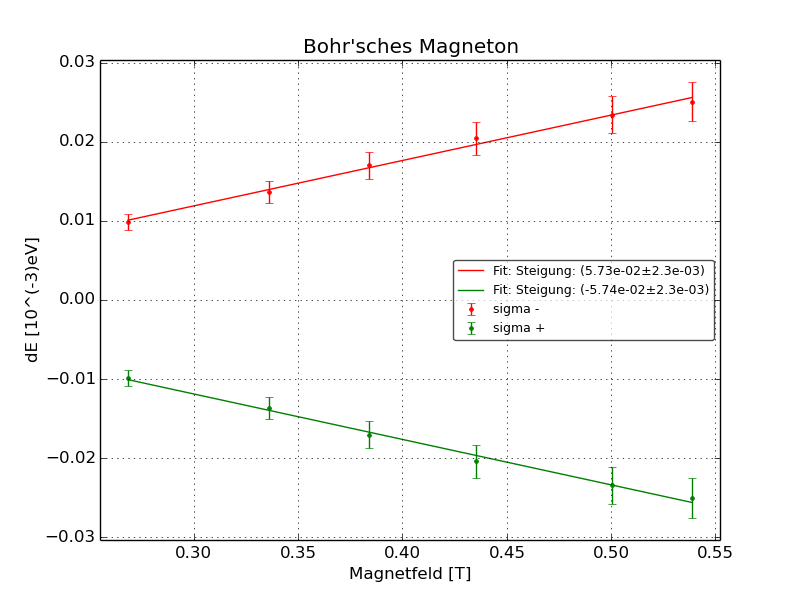
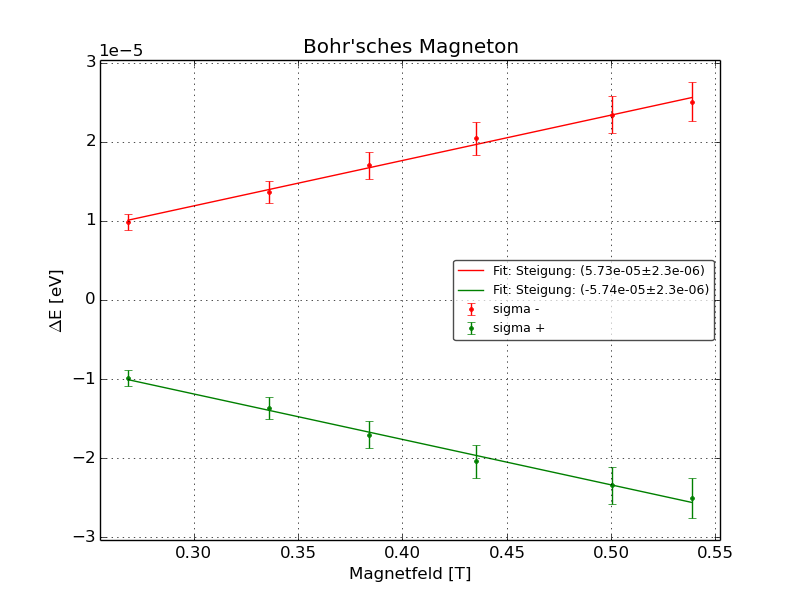
Auswertungen fast fertig und ein bild eingefuegt

diff --git a/Versuch401-Elektronische-Uebergaenge-in-Atomen/Report/Versuch401_TobiasBrauell_FrederikeSchroedel_Report.tex b/Versuch401-Elektronische-Uebergaenge-in-Atomen/Report/Versuch401_TobiasBrauell_FrederikeSchroedel_Report.tex
@@ -294,6 +294,14 @@
         
         \todo[inline]{TODO!}
         
+        \begin{figure}[ht]
+        \centering
+        \includegraphics[width=\textwidth]
+    {Figures/termschema2.png}
+        \caption{Termschema des Quecksilber Atomes mit eingezeichneten
+        Übergängen.}
+        \label{fig:termschema2}
+      \end{figure}
       \end{subsection}
       %%%%%%%%%%%%%%%%%%%%%%%%%%%%%%%%%%%%%%%%
       
@@ -625,10 +633,26 @@
       %%%%%%%%%%%%%%%%%%%%%%%%%%%%%%%%%%%%%%%%
       %%%%%%%%%%%%%%%%%%%%%%%%%%%%%%%%%%%%%%%%
       %%%%%%%%%%%%%%%%%%%%%%%%%%%%%%%%%%%%%%%%
-      \begin{subsection}{Weiterführende Überlegungen}
+      \begin{subsection}
+      {Weiterführende Überlegungen: Finesse und Auflösungsvermögen}
         \label{chp:Zeeman:sec:AuswertungWeiteres}
-        
-        \todo[inline]{Finesse und auflösung fehlen noch!!!}
+        Zur Berechnung der theoretischen Finesse $\mathcal{F}$ benötigt man
+        neben \cref{eq:Finesse} den Reflexionskoeffizienten des 
+        \textit{Fabry-Perot-Etalons} der für unseren Aufbau $R=0.85$ beträgt.
+        Daraus ergibt sich nun aus \cref{eq:Finesse} $\mathcal{F}=19.31$.
+        Aus der theoretischen Finesse, der Wellenlänge der beobachteten Linie
+        $\lambda=\SI{643.8}{\nano\meter}$, der Dicke des
+        \textit{Fabry-Perot-Etalons} $d=\SI{4}{\milli\meter}$ und des
+        Brechungsindex $n=1.457$ lässt sich die theoretische Auflösung $R$ aus
+        \cref{eq:Aufloesung} mit $R=\SI{3.50e5}{}$ bestimmen. \newline
+        Für die Bestimmung der realen Auflösung haben wir, unter Beobachtung
+        mit dem Okular, den minimalen Spulenstrom bestimmt ab dem eine Trennung
+        der Linien erkennbar ist. Bei der transversalen Ausrichtung haben wir
+        einen Wert von $I_T=\SI{2.5}{\ampere}$ gemessen. Mit der von uns
+        bestimmten Magnetfeldgleichung ergibt sich daraus eine Feldstärke von
+        $B_T=(224.40\pm 10.39)\SI{}{\milli\tesla}$. Bei der longitudinalen
+        Messung ergibt sich eine Feldstärke von 
+        $B_L=(105.23\pm 5.70)\SI{}{\milli\tesla}$. 
         
       \end{subsection}
       %%%%%%%%%%%%%%%%%%%%%%%%%%%%%%%%%%%%%%%%
@@ -646,12 +670,10 @@
       Betrachtet man die Interferenzmuster einer Hg-Lampe durch ein
       \textit{Fabry-Perot-Etalon} kann man nicht nur das wunderschöne Muster
       optisch betrachten, setzt man die Lampe einem externen Magnetfeld aus,
-      so lässt sich außerdem auch die Spin-Entartung
-      \todo[inline]{Spin richtig?}
-      beobachten und das Bohrschen Magneton aus den aufspaltenden
-      Energiedifferenzen berechnen. Der von uns bestimmte Wert für das Bohrsche
-      Magneton passt außerdem auch noch erstaunlich gut mit seinen Fehlergrenzen
-      zum Literaturwert.
+      so lässt sich außerdem auch die Energie-Entartung beobachten und das
+      Bohrschen Magneton aus den aufspaltenden Energiedifferenzen berechnen.
+      Der von uns bestimmte Wert für das Bohrsche Magneton passt außerdem auch
+      noch erstaunlich gut mit seinen Fehlergrenzen zum Literaturwert.
       Alle Fehler wurden bei den benutzten Rechnungen mithilfe der
       Fehlerfortpflanzung bestimmt.
     \end{section}
@@ -677,7 +699,6 @@
       \label{chp:FH:sec:AufbauJustierung}
       
       
-      
     \end{section}
     %%%%%%%%%%%%%%%%%%%%%%%%%%%%%%
     
@@ -688,7 +709,6 @@
     %%%%%%%%%%%%%%%%%%%%%%%%%%%%%%
     \begin{section}{Justierung und Durchführung}
       \label{chp:FH:sec:JusitierungDurchfuehrung}
-      
       
       
     \end{section}
@@ -793,7 +813,33 @@
       %%%%%%%%%%%%%%%%%%%%%%%%%%%%%%%%%%%%%%%%
       \begin{subsection}{Abhängigkeiten des Anodenstromes}
         \label{chp:FH:sec:AuswertungAnodenstrom}
-        Als nächstes ist die Abhängigkeit des Anodenstromes 
+        Als nächstes sind die Abhängigkeiten des Anodenstromes zu klären. Dazu
+        könne wir wieder \cref{fig:FHvergleich} betrachten. Zunächst fällt auf,
+        dass es bei ganzen Vielfachen der Übergangsenergie keine scharfen
+        Einbrüche des Anodenstromes gibt. Dafür kann es verschieden Gründe
+        geben. \newline
+        zum einen haben angeregte Zustände eine endliche Lebensdauer in denen
+        sie kein zweites mal angeregt werden können und die Elektronen
+        unbeeinträchtigt weiter fliegen können. Außerdem ist das
+        Quecksilberatom relativ dünn, sodass die freie
+        Weglänge im Quecksilberatom $\SI{0.1}{\micro\meter}$ bis
+        $\SI{100}{\micro\meter}$ beträgt. Es kann also genauso gut sein, dass
+        ein Elektron keines der Quecksilberatome trifft und ebenfalls
+        unbeeinträchtigt weiter fliegt selbst wenn es die richtige Energie
+        haben sollte. Diese Möglichkeit stellt einen Zusammenhang zur
+        Abhängigkeit des Anodenstromes zur Bremsspannung dar. Je höher diese
+        ist, desto geringer ist die Zeit, die das Elektron benötigt um
+        ein Atom zu durchqueren und desto geringer ist die Wahrscheinlichkeit,
+        dass es eines anregen kann. Außerdem wird dadurch auch der Bereich, in
+        dem das Elektron genügend Energie besitzt weiter beschränkt. \newline
+        Bei dem Vergleich der Anodenströme bei unterschiedlichen Temperaturen
+        kann man sehr gut erkennen, dass es bei geringeren Temperaturen
+        deutlich schneller zu höheren Anodenströmen kommt als bei höheren
+        Temperaturen. Dies könnte daran liegen, dass der Dampfdruck bei
+        geringeren Temperaturen auch kleiner ist und die Elektronen seltener
+        mit den Quecksilberatomen stoßen. Daher sind auch die Maxima auch
+        deutlich höher als bei größeren Temperaturen.
+        
       \end{subsection}
       %%%%%%%%%%%%%%%%%%%%%%%%%%%%%%%%%%%%%%%%
       
@@ -802,10 +848,24 @@
       %%%%%%%%%%%%%%%%%%%%%%%%%%%%%%%%%%%%%%%%
       %%%%%%%%%%%%%%%%%%%%%%%%%%%%%%%%%%%%%%%%
       %%%%%%%%%%%%%%%%%%%%%%%%%%%%%%%%%%%%%%%%
-      \begin{subsection}{Temperaturinterval}
+      \begin{subsection}{Temperaturintervall}
         \label{chp:FH:sec:AuswertungTemperatur}
-        Als nächstes ist zu klären weshalb die praktische Durchführung des
-        Versuches auf ein relativ kleines Temperaturinterval beschränkt ist.
+        Die praktische Durchführung des Versuches ist aufgrund des Dampfdruckes
+        auf ein relativ kleines Temperaturintervall beschränkt. Bei höheren
+        Temperaturen verdampfen mehr Quecksilberatome und die Teilchendichte
+        im Gas steigt, sodass weniger Elektronen die Anode erreichen und mehr
+        Atome Angeregt werden können. Bei einer zu kleinen Temperatur wiederum
+        ist die Teilchendichte zu gering und es kommt zu weniger Stößen
+        zwischen Elektronen und Atomen. Daher sollte darauf geachtet werden,
+        dass der sinnvolle Temperaturbereich nicht verlassen wird. Bei unseren
+        Messungen haben wir festgestellt, dass eine Temperatur von 
+        $\SI{160}{\celsius}$ nicht unterschritten werden sollte. Leider haben
+        wir als maximale Temperatur nur $\SI{175}{\celsius}$ vermessen. Bei
+        dieser Temperatur zeigt die Röhre noch in ein sehr gutes
+        Arbeitsverhalten. Um die obere Grenze des akzeptablen
+        Temperaturbereiches zu bestimmen, hätten wir weitere, höhere
+        Temperaturen vermessen müssen.
+        
       \end{subsection}
       %%%%%%%%%%%%%%%%%%%%%%%%%%%%%%%%%%%%%%%%
       
@@ -819,9 +879,20 @@
     %%%%%%%%%%%%%%%%%%%%%%%%%%%%%%
     \begin{section}{Fazit}
       \label{chp:FH:sec:Fazit}
-      
-      
-      
+      Bei diesem Versuch konnten wir tatsächlich die Energie des
+      $6^{1}S_{0} \rightarrow 6^{3}P_{1}$ Übergangs im Quecksilberatom mit
+      hinreichender Genauigkeit bestimmen. Der von uns bestimmte Wert von
+      $\Delta E = (4.971\pm 0.070)\SI{}{\electronvolt}$ passt mit seinen
+      Fehlergrenzen sogar beinahe zum Literaturwert von 
+      $\SI{4.89}{\electronvolt}$. \newline
+      Außerdem konnten wir einen deutlichen Zusammenhang zwischen dem
+      Anodenstrom und der Temperatur sowie der angelegten Bremsspannung
+      erkennen. Dabei haben wir festgestellt, dass es bei der Durchführung des
+      Franck-Hertz Versuches sehr wichtig ist die Temperatur der Röhre in einem
+      beschränkten Temperaturintervall zu halten um ein sinnvolles Arbeiten
+      der Apparatur zu gewährleisten. \newline
+      Alle Fehler wurden bei den benutzten Rechnungen mithilfe der
+      Fehlerfortpflanzung bestimmt.
     \end{section}
     %%%%%%%%%%%%%%%%%%%%%%%%%%%%%%
    

diff --git a/Versuch401-Elektronische-Uebergaenge-in-Atomen/Report/plots.py b/Versuch401-Elektronische-Uebergaenge-in-Atomen/Report/plots.py
@@ -689,10 +689,10 @@ def CCD_ZoomFit(first, last, bottom, top, title, xlabel1, xunit1, xlabel2, xunit
         ddlproln = dlproln*z
         ddlprolp = dlprolp*z
         
-        dEp.append(-h*c*dlprolp/l0*1000)
-        dEn.append(-h*c*dlproln/l0*1000)
-        ddEp.append(np.sqrt((h*c*ddlprolp/l0)**2)*1000)
-        ddEn.append(np.sqrt((h*c*ddlproln/l0)**2)*1000)
+        dEp.append(-h*c*dlprolp/l0)
+        dEn.append(-h*c*dlproln/l0)
+        ddEp.append(np.sqrt((h*c*ddlprolp/l0)**2))
+        ddEn.append(np.sqrt((h*c*ddlproln/l0)**2))
         #print dEn
         #print B
         # Plotte die Originaldaten. Da es Messdaten sind, werden sie nicht mit
@@ -802,8 +802,8 @@ def CCD_ZoomFit(first, last, bottom, top, title, xlabel1, xunit1, xlabel2, xunit
         title = "Bohr'sches Magneton"
         xlabel = "Magnetfeld"
         xunit = "[T]"
-        ylabel = "dE"
-        yunit = "[10^(-3)eV]"
+        ylabel = r"$\Delta$E"
+        yunit = "[eV]"
         
         # set axis labels
         plt.title(title)
@@ -813,11 +813,13 @@ def CCD_ZoomFit(first, last, bottom, top, title, xlabel1, xunit1, xlabel2, xunit
         # place a Legend in the plot
         set_legend(5)
         
+        plt.gca().get_yaxis().get_major_formatter().set_powerlimits((0, 1))
+        
         # display grid
         plt.grid(True)
         
         # save the plot in file
-        filename = title + "_" + xlabel + "_" + ylabel
+        filename = title + "_" + xlabel + "_" + "dE"
         write_file(filename)
         plt.close()
             
